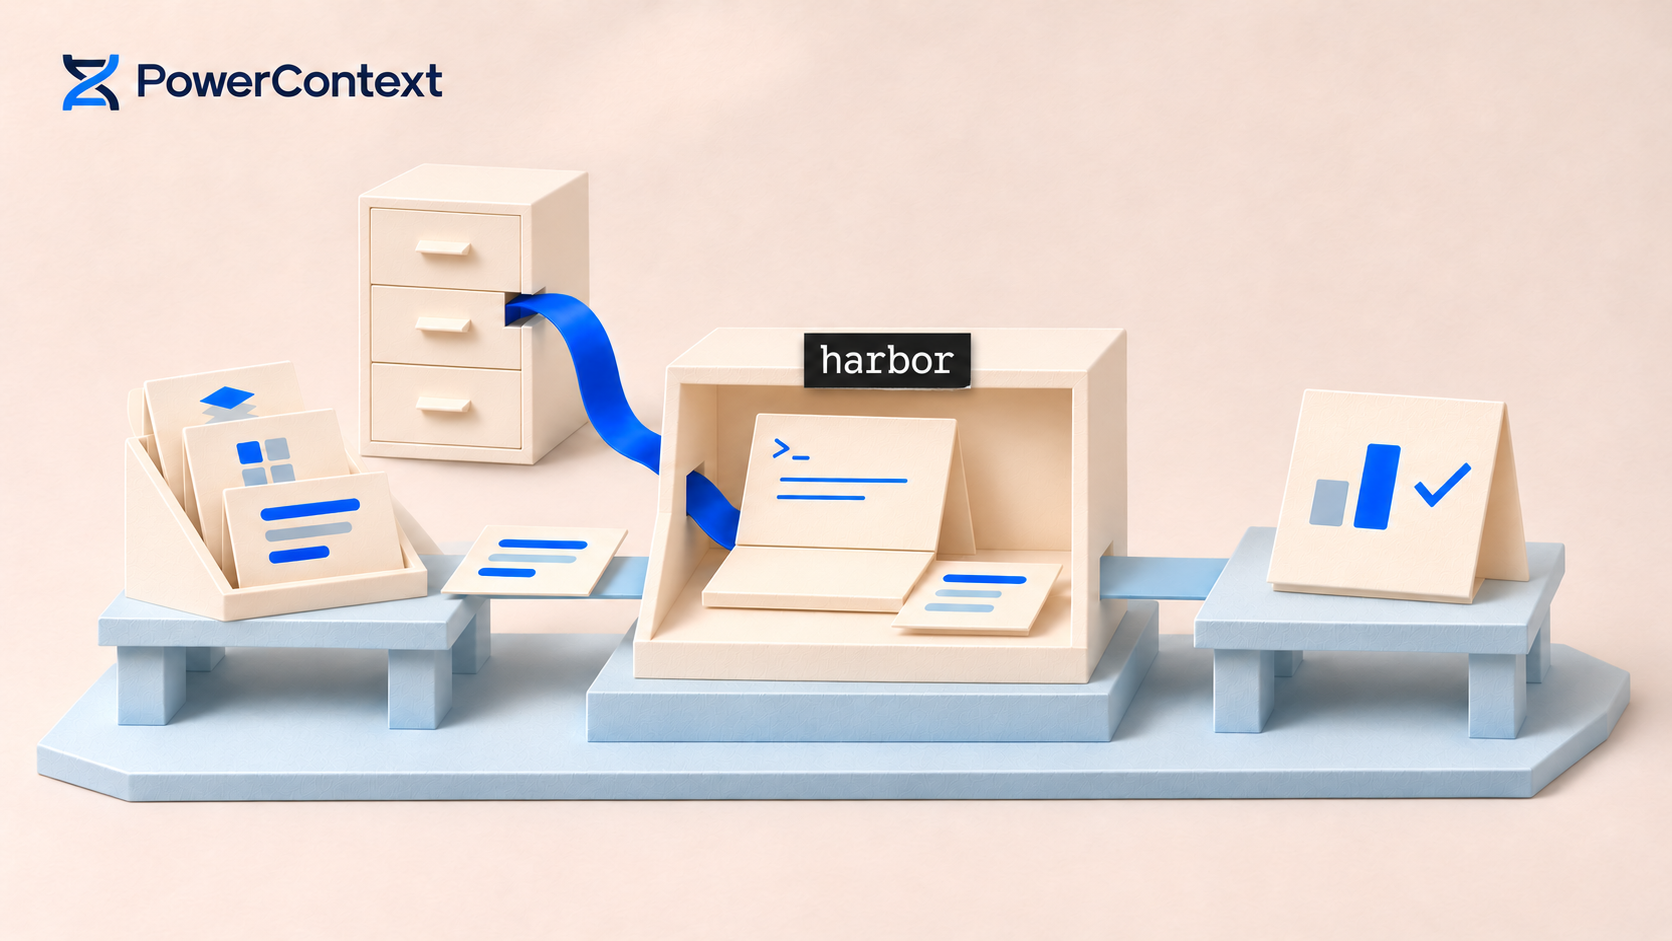
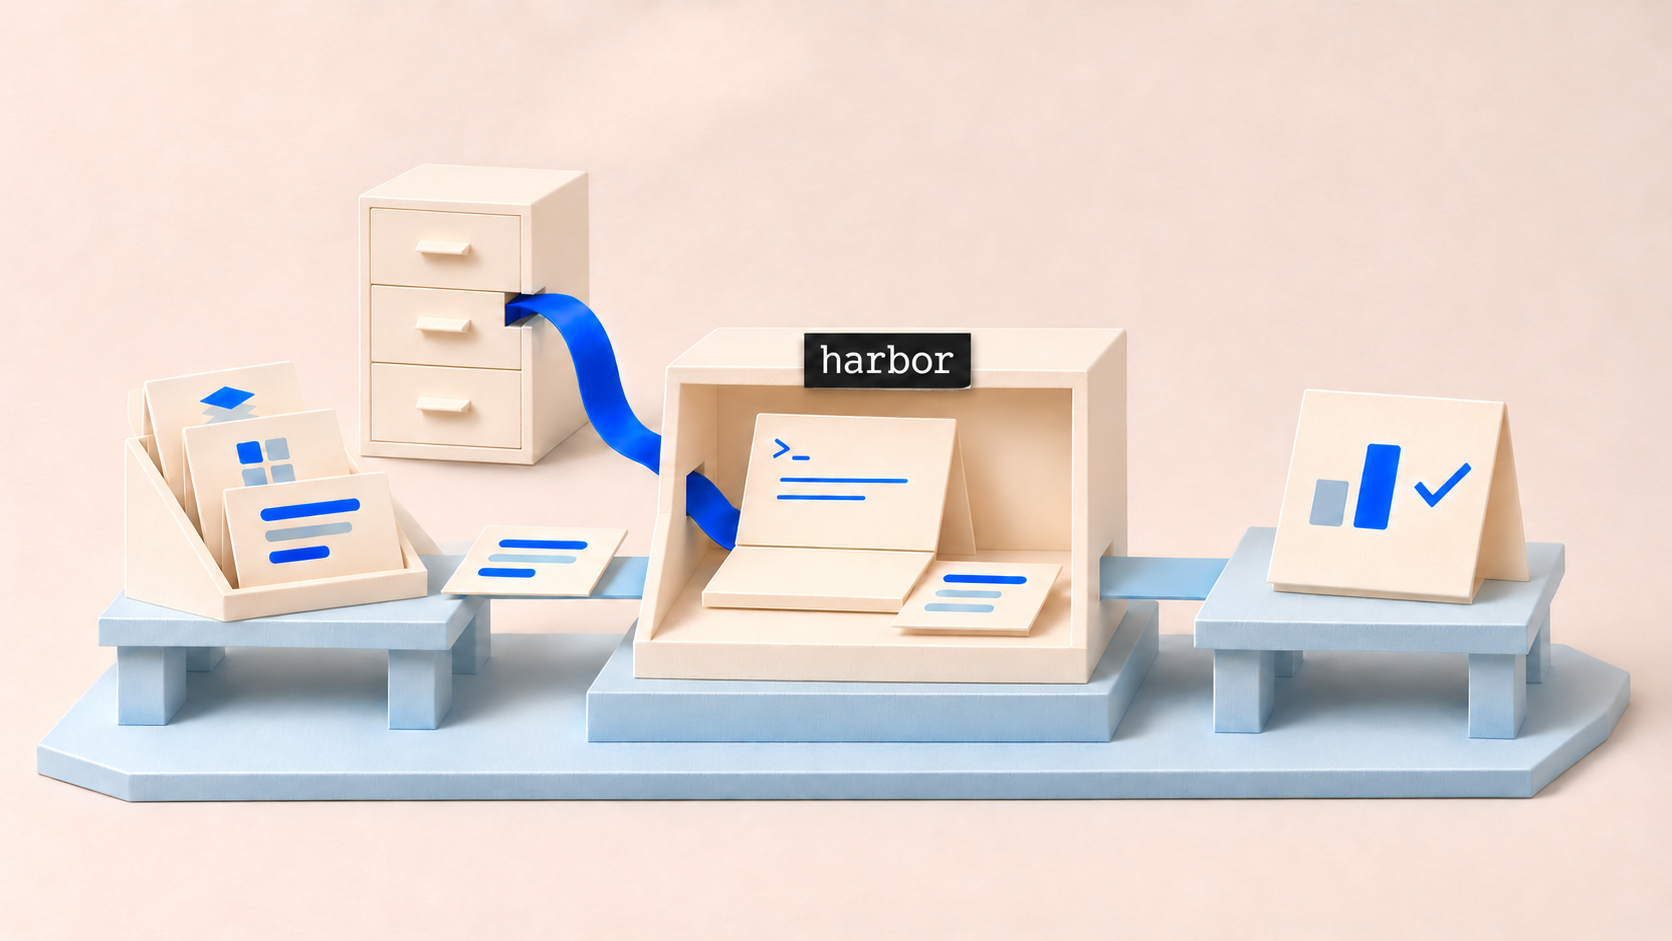
docs(blog): publish posts and fix cover branding (#2714)

Changed region(s): [[0.0311, 0.0616, 0.2799, 0.1233], [0.5287, 0.3698, 0.5598, 0.4006]]

diff --git a/docs/en/blog/posts/deepseek-harness-powercontext-plugin.md b/docs/en/blog/posts/deepseek-harness-powercontext-plugin.md
@@ -1,10 +1,14 @@
 ---
 title: Building a PowerContext plugin for DeepSeek Harness
 description: Connect project memory, automatic recall, and Handoff to DeepSeek Harness through a thin Cordis adapter.
-draft: true
-authors: []
+draft: false
+authors:
+  - knqiufan
 slug: deepseek-harness-powercontext-plugin
 date: 2026-08-14
+updated: 2026-11-18
+cover: assets/blog/deepseek-harness-powercontext-plugin/cover.png
+cover_alt: A modular plugin connects a session workbench to a separate project-context archive.
 ---
 
 # Building a PowerContext plugin for DeepSeek Harness
@@ -17,6 +21,8 @@ loops, scheduling, and UI can all be composed as plugins without modifying the H
 That design is a natural fit for PowerContext. PowerContext already keeps project Memory, Experience, Skill, and
 Handoff in an independent Server. DeepSeek Harness only needs a thin adapter that connects Cordis lifecycle events,
 tools, and commands to the PowerContext HTTP API.
+
+The following examples use the standalone [powercontext-dsh v0.0.2 plugin](https://github.com/knqiufan/powercontext-dsh/tree/v0.0.2) to explain its Cordis integration.
 
 <!-- more -->
 
@@ -60,12 +66,11 @@ installs a bundle into the `web` profile; it does not copy plugin code into the 
 
 ## Why use two processes?
 
-PowerContext and DeepSeek Harness cooperate across two processes:
+There are two backend processes; the browser is a client of the Harness UI:
 
-1. **DeepSeek Harness Web** owns the browser UI, sessions, and agent loop.
-2. **The PowerContext DSH plugin** runs inside the Harness process and registers hooks, `pc_*` tools, `/pc` commands,
-   and usage guidance.
-3. **PowerContext Server** is an independent Python process. It listens on `http://127.0.0.1:8000` by default and owns
+1. **DeepSeek Harness** manages sessions and the agent loop. The PowerContext DSH plugin runs inside this process and
+   registers hooks, `pc_*` tools, `/pc` commands, and usage guidance.
+2. **PowerContext Server** is an independent Python process. It listens on `http://127.0.0.1:8000` by default and owns
    persistence, retrieval, review, and Handoff.
 
 [![Two processes connected over HTTP](../../../assets/blog/deepseek-harness-powercontext/two-process-architecture.en.svg)](../../../assets/blog/deepseek-harness-powercontext/two-process-architecture.en.svg "View full-size diagram")
@@ -89,17 +94,19 @@ few rules:
 | Register model tools through `defineTool` | Give inputs and outputs stable schemas |
 | Ship a built `lib/` directory | Profiles do not compile TypeScript for external bundles |
 
-The PowerContext plugin entry point can be summarized as:
+The entry point loads peer modules from the Harness installation before registering tools and recall hooks, so the external plugin can resolve those dependencies:
 
 ```ts
 export const name = 'powercontext-dsh'
 export const inject = ['tools', 'agents']
 
 export async function apply(ctx: Context, config: Config): Promise<void> {
+  const toolsMod = await loadPeer<{ defineTool: DefineTool }>('@deepseek-ai/dsh-tools')
+  const llmMod = await loadPeer<{ createUserMessage: CreateUserMessage }>('@deepseek-ai/dsh-llm')
   const runtime = createRuntime(ctx, config)
   registerGuidance(ctx)
-  registerTools(ctx, runtime)
-  registerRecall(ctx, runtime)
+  registerTools(ctx, runtime, toolsMod.defineTool)
+  registerRecall(ctx, runtime, llmMod.createUserMessage)
   registerCommands(ctx, runtime)
   registerSkill(ctx)
 }
@@ -149,11 +156,10 @@ read PowerContext's Python source.
 
 ## Recall first, then capture
 
-Automatic hooks provide cross-session continuity. After the user sends a message and before the model begins analysis,
-the plugin independently performs two steps:
+Before each model step, the plugin performs two operations through the `agent/pre-step` hook:
 
 1. Call `prepare_context` to obtain relevant, size-bounded project context and inject it as reference material.
-2. Call `capture_content_source` to preserve the current user input as raw Source evidence.
+2. Call `capture_content_source` to preserve the step's text input as raw Source evidence.
 
 Capturing Source is not the same as extracting Memory. Explicit Memory writes do not require a generation model. A
 generation model is still required when the Server should extract Memory automatically from captured Sources.
@@ -166,10 +172,11 @@ the normalized workspace Git remote when available and the workspace path otherw
 
 ## Install and verify
 
-Install and start PowerContext Server first:
+The early standalone plugin described here requires a PowerContext Server with a matching HTTP contract. For installation and configuration of the current version, see the [DeepSeek Harness integration guide](/en/docs/integrations/dsh/).
+
+Start a configured Server:
 
 ```bash
-uv tool install "powercontext[cli,server] @ git+https://github.com/oceanbase/powercontext.git@master"
 powercontext server run
 ```
 
@@ -180,16 +187,16 @@ curl http://127.0.0.1:8000/health/live
 curl http://127.0.0.1:8000/health/ready
 ```
 
-After creating the DeepSeek Harness `web` profile, install the integration:
+Create the DeepSeek Harness `web` profile, then load the matching standalone plugin [release](https://github.com/knqiufan/powercontext-dsh/releases/tag/v0.0.2):
 
 ```bash
-powercontext setup dsh --source oceanbase/powercontext --ref master
+dsh plugin --profile web add ./powercontext-dsh-0.0.2.tgz
 ```
 
-Keep `--ref` aligned with the PowerContext tool version. A local checkout works too:
+An existing checkout of that plugin version can also be loaded directly:
 
 ```bash
-powercontext setup dsh --source .
+dsh plugin --profile web add /path/to/powercontext-dsh
 ```
 
 Start DeepSeek Harness:
@@ -202,13 +209,6 @@ Use dump-config to confirm that the tree contains `id: powercontext-dsh`:
 
 ```bash
 dsh --profile web --dump-config
-```
-
-You can also run the full diagnostics:
-
-```bash
-powercontext doctor
-powercontext doctor dsh
 ```
 
 ![powercontext-dsh in the plugin list](../../../assets/blog/deepseek-harness-powercontext/plugin-list.png)
@@ -265,6 +265,7 @@ Related projects:
 
 - [PowerContext](https://github.com/oceanbase/powercontext)
 - [DeepSeek Harness](https://github.com/deepseek-ai/deepseek-harness)
+- [powercontext-dsh](https://github.com/knqiufan/powercontext-dsh)
 - [Cordis](https://github.com/cordiverse/cordis)
 - [A Programming Paradigm for Spatiotemporal Composability](https://github.com/cordiverse/paper)
 - [DeepSeek Harness introduction](https://deepseek.com/harness/en/)

diff --git a/docs/en/blog/posts/three-days-four-thousand-evaluations.md b/docs/en/blog/posts/three-days-four-thousand-evaluations.md
@@ -5,12 +5,12 @@ description: How the database competition uses Harbor for task authoring, partic
 cover: assets/blog/three-days-four-thousand-evaluations/cover.png
 cover_alt: Submission records pass through a bounded queue and independent verification environments into persistent results and delivery records.
 date: 2026-11-05
-updated: 2026-11-11
+updated: 2026-11-18
 authors:
   - chojan-shang
 categories:
   - Engineering
-draft: true
+draft: false
 pin: false
 ---
 

diff --git a/docs/zh/blog/posts/three-days-four-thousand-evaluations.md b/docs/zh/blog/posts/three-days-four-thousand-evaluations.md
@@ -5,12 +5,12 @@ description: 数据库大赛如何用 Harbor 组织赛题、公开自测和 Agen
 cover: assets/blog/three-days-four-thousand-evaluations/cover.png
 cover_alt: 提交记录经过有界队列与多个独立验收环境，汇入持久化的结果与回传记录。
 date: 2026-11-05
-updated: 2026-11-11
+updated: 2026-11-18
 authors:
   - chojan-shang
 categories:
   - 工程实践
-draft: true
+draft: false
 pin: false
 ---
 
